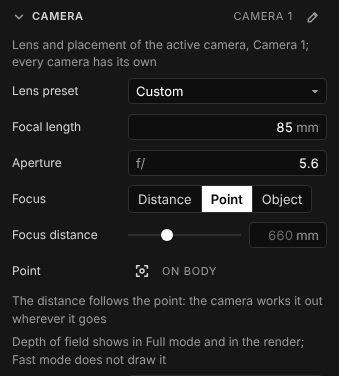
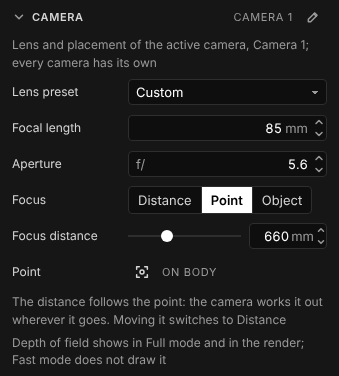
F1 docs: the decisions taken, K3's cameras and N2's batches
ROADMAP records the six F1 decisions as taken by the session lead (the
slider switches to Distance, the rest as built; the distortion +1 corner
stays open) and what came with the merge of K3 and N2; SPEC, UI and
ARCHITECTURE say how the interior cameras focus and that moving the
slider in Point or Object switches to Distance; the inspector capture is
taken again with the steppers and the enabled slider.

Claude-Session: https://claude.ai/code/session_01Vyw8CoEN48cqBKpA2hjydX

diff --git a/src/core/focus.ts b/src/core/focus.ts
@@ -7,7 +7,7 @@
 //   part's transforms and animation; the focus distance is the one that puts that point in focus from the camera as it
 //   is at that moment.
 // - OBJECT: a part, a group or the model (`focusObject`); the point of it the focus follows is, for now, the centre of
-//   its bounds (◆ Fable: `OBJECT_FOCUS_POINT`, with the other two candidates ready below).
+//   its bounds (decided: `OBJECT_FOCUS_POINT`, with the other two candidates written below and unused).
 //
 // "In focus" is the engine's rule (rt-core `focus`): the thin lens focuses the plane square to the view axis at the
 // focus distance, so a point's distance is its depth along the axis; a tilted lens (O1) focuses the plane of the hinge
@@ -66,7 +66,7 @@ export function anchorOf(state: ProjectState, node: NodeId, world: Vec3, pose?: 
 }
 
 /**
- * Which point of an object the focus follows (◆ Fable decides; the default is the centre of its bounds):
+ * Which point of an object the focus follows (decided: the centre of its bounds; the other two are kept, unused):
  * - `BOUNDS_CENTRE`: the centre of the box round the object's parts, as they are at that moment;
  * - `NEAREST`: the object's vertex nearest the camera along the view axis (its front);
  * - `SILHOUETTE`: the surface the camera sees at the centre of the object's outline on the image (the box round its
@@ -74,7 +74,7 @@ export function anchorOf(state: ProjectState, node: NodeId, world: Vec3, pose?: 
  */
 export type ObjectFocusPoint = 'BOUNDS_CENTRE' | 'NEAREST' | 'SILHOUETTE';
 export const OBJECT_FOCUS_POINTS: readonly ObjectFocusPoint[] = ['BOUNDS_CENTRE', 'NEAREST', 'SILHOUETTE'];
-/** ◆ Fable: the point of an object the focus follows. */
+/** The point of an object the focus follows (decided). */
 export const OBJECT_FOCUS_POINT: ObjectFocusPoint = 'BOUNDS_CENTRE';
 
 /** The world positions of a part's vertices at a pose (none without its mesh data). */
@@ -317,7 +317,7 @@ export function focusDistanceAt(state: ProjectState, camId: CameraId, t: number 
 }
 
 /**
- * The range of the focus distance's slider (◆ Fable: the range and its logarithmic scale): from half the nearest to
+ * The range of the focus distance's slider (decided, with its logarithmic scale): from half the nearest to
  * twice the farthest depth of the product's box along the camera's view axis (its eight corners; the whole scene's
  * without a product), at least a decade wide, and always with `value` in it. Millimetres, never below 1.
  */

diff --git a/src/ui/panels/insp-focus.ts b/src/ui/panels/insp-focus.ts
@@ -61,7 +61,7 @@ export function focusRows(ctx: Ctx, scope: Scope, camId: () => CameraId): HTMLEl
 /**
  * The focus distance as a logarithmic slider with its field. In Distance it is the camera's own; in Point and Object
  * it shows the distance worked out for the point or the object, and moving it switches the camera to Distance from
- * there (the decision on F1's ◆: one undo entry, the switch and the gesture together).
+ * there (decided: one undo entry, the switch and the gesture together).
  */
 function distanceRow(ctx: Ctx, scope: Scope, camId: () => CameraId): HTMLElement {
   const { store } = ctx;

diff --git a/docs/ROADMAP.md b/docs/ROADMAP.md
@@ -11765,20 +11765,12 @@ cambia la luminancia y la saturación media en menos del 0,1 %).
   claros en oscuro, lo que aplana la jerarquía de grises. Decidir: subirlos,
   limitar el texto auxiliar a `bg-0`, `bg-1` y *hover* (`#4e4e4e` /
   `#afafaf`) o aceptar 4,5:1 para el texto secundario.
-- **F1** (los ◆ de su párrafo): qué punto sigue *Enfoque ▸ Objeto* (hoy el
-  centro de su caja; escritas y sin usar, la superficie más cercana a lo largo
-  del eje y la que se ve en el centro de su silueta, `objectFocusPoint`); el
-  rango y la escala del deslizador de la distancia (hoy logarítmico, de la
-  mitad de la esquina más cercana de la caja del producto al doble de la más
-  lejana, una década como mínimo y siempre con el valor dentro); si en
-  *Punto* y *Objeto* el deslizador está deshabilitado con la distancia que
-  sale (hoy) o moverlo pasa la cámara a *Distancia*; el criterio del mejor
-  foco de una lente trazada (hoy el contraste de 10 y 5 pares de líneas por
-  mm del cuadro de 36 mm, el máximo más cercano a la menor confusión; la menor
-  confusión quedaba a milímetros, y otra frecuencia lo mueve 1–3 mm a f/1,4); qué hace un cambio de foco animado
-  (clip `FOCUS`) en una cámara en *Punto* (hoy tira desde la distancia que
-  sigue y el último gana); y si el clic en un vidrio enfoca su cara delantera
-  (hoy) o lo que se ve a través.
+- **F1** — **decididas** (17-10, por el responsable de la sesión; el párrafo
+  de F1 las recoge): el centro de la caja para *Objeto*; el rango y la escala
+  del deslizador, como están; mover el deslizador en *Punto* u *Objeto* pasa a
+  *Distancia*; el criterio del mejor foco, como está (la esquina con
+  distorsión +1 queda abierta); el clip de foco gana; el clic en vidrio, su
+  cara delantera.
 
 - **U15** (los ◆ de su párrafo): el aspecto de la **variante compacta**
   de las flechas (hoy un par más fino, siempre visible, en los campos con
@@ -11970,31 +11962,49 @@ deshaciéndolo: el test correspondiente falla (el informe del PR los lista).
 5. **El lector de cámaras de la biblioteca** (`io/library.ts`) sigue sin leer
    la óptica de una cámara (ya era así); lee los modos de enfoque.
 6. **`slider()`** cambió por dentro lo justo: una escala opcional
-   (`toUnit`/`fromUnit`, 1000 posiciones); las flechas del campo son de U15.
-7. **El clic en vidrio** enfoca su cara delantera, como el resto (◆).
+   (`toUnit`/`fromUnit`, 1000 posiciones), junto a las flechas, la variante
+   compacta y `setDisabled` de U15 (fusionadas).
+7. **El clic en vidrio** enfoca su cara delantera, como el resto (decidido).
 8. **La esquina de una lente trazada con distorsión artística +1** (abajo a
    la derecha, a f/1,4) sigue con la banda a −38,5 px del clic, fuera de ella:
    el enfoque escrito es el del motor para ese píxel (0,00 mm), así que lo que
    no casa es el criterio del mejor foco con lo que el render ve allí (un
    punto del sensor muy fuera, con mucha aberración); el resto de esquinas
-   trazadas cae dentro de la banda. Queda con el criterio (◆).
+   trazadas cae dentro de la banda. El criterio se aceptó; esta esquina queda
+   abierta.
 9. **`cargo test --workspace`** con la máquina cargada: cuatro tests de
    `rt-app` (descargas y actualizaciones con servidores locales, el
    adaptativo con varios hilos) y cuatro de `rt-cli` (TIFF) fallan a veces y
    pasan solos; no tocan F1.
 
-**Para K3** (la cámara de interiores, en su rama): el rayo del pico es el de
-`Camera::generate_ray` con la pupila en su centro, así que las cámaras nuevas
-(descentramiento de interiores, ortográfica, panorámica, ojo de pez) pican
-solas; lo que hay que extender es `Camera::focus_distance_to` (qué distancia
-enfoca un punto con cada cámara nueva) y su espejo `core/focus.ts
-focusDistanceFor`, con su test de paridad, y `viewCamera`/`cameraToRsb` son
-comunes a los dos.
+**Con K3 y N2** (fusionadas tras la fase): el rayo del pico es el de
+`Camera::generate_ray` con la pupila en su centro, así que la ortográfica, las
+dos panorámicas y las verticales rectas pican solas. `Camera::focus_distance_to`
+y `core/focus.ts focusDistanceFor` se extendieron: una panorámica es
+estenopeica y su distancia de enfoque (y la profundidad del pico, como su
+pase) es la distancia al punto, también detrás de la cámara; con verticales
+rectas la cámara que se renderiza es la nivelada (`renderedCamera`), y la
+distancia es la de esa cámara entre cos(inclinación corregida), una lente
+trazada resuelta sobre ella. Tests: el pico y el rayo principal en
+`rt-core focus::tests` con cámaras ortográfica, equirectangular y ojo de pez;
+la paridad TS–`rt.wasm` y el camino del clic, una por proyección, en
+`focus-modes.test.ts`. N2: la cola y los lotes ya escriben la distancia que
+sigue cada cámara (la resuelve la frontera del motor, `viewCamera`, con la
+cámara y la pose del trabajo); `batch.test.ts` lo comprueba en un lote de
+cámaras × estudios y en los fotogramas de una animación, y falla sin esa
+resolución.
 
-**◆ Fable** (en «Decisiones para Fable»): el punto de un *Objeto*; el rango y
-la escala del deslizador; deslizador deshabilitado en *Punto* y *Objeto* o
-moverlo pasa a *Distancia*; el criterio del mejor foco de una lente trazada;
-un cambio de foco animado sobre una cámara en *Punto*; el clic en vidrio.
+**Decisiones** (17-10, del responsable de la sesión; eran ◆): el *Objeto*
+sigue el centro de su caja (las otras dos candidatas siguen escritas y sin
+usar); el rango y la escala logarítmica del deslizador, como están; en
+*Punto* y *Objeto* el deslizador enseña la distancia que sale y **moverlo pasa
+la cámara a *Distancia*** desde ahí, en una sola entrada de deshacer (el
+deslizador no se vuelve a dibujar al cambiar de modo, así que el arrastre
+sigue; `tools/focus-click-check.mjs` lo comprueba); el mejor foco de una lente
+trazada por el contraste de 10 y 5 pares de líneas por milímetro, el máximo
+más cercano a la menor confusión (la esquina con distorsión +1 queda abierta);
+un clip de foco sobre una cámara en *Punto* gana, como ahora; el clic en un
+vidrio enfoca su cara delantera.
 
 ## Orden sugerido
 

diff --git a/docs/CHANGELOG.md b/docs/CHANGELOG.md
@@ -8,7 +8,8 @@ fase del roadmap (`ROADMAP.md`) de donde sale cada línea.
 ### Cámara
 
 - **Enfocar con clic cae en el píxel exacto** de la vista exacta: el clic toma el rayo principal que el motor traza por ese píxel (con la pose del cabezal, la cámara mirada a través con su propio cuadro, la distorsión de una lente trazada) y lo que toca, por las dos caras; la distancia que lo pone nítido es la del motor (la profundidad; con inclinación, el plano de la bisagra que pasa por el punto; con una lente trazada, donde el detalle fino tiene más contraste, que abierta cae a milímetros del plano paraxial). Medido en un damero inclinado con 135 mm a f/1,4: la banda nítida pasa por el clic (F1).
-- **Tres modos de enfoque por cámara**: *Distancia* (como antes), *Punto* (un punto de una pieza que el enfoque sigue al orbitar, al acercarse, al mover la pieza, en la línea de tiempo, en la cola y en los lotes) y *Objeto* (una pieza, un grupo o el modelo, por su centro). En el inspector de la cámara, con la distancia como un deslizador logarítmico junto a su valor; en el menú de una pieza, *Mantener enfocado*; en la paleta, cuatro órdenes. El visor marca el punto de la cámara seleccionada. Si la pieza del punto o el objeto se borran, la cámara vuelve a su última distancia y lo avisa. Los proyectos y las cámaras de antes se abren por distancia (F1).
+- **Tres modos de enfoque por cámara**: *Distancia* (como antes), *Punto* (un punto de una pieza que el enfoque sigue al orbitar, al acercarse, al mover la pieza, en la línea de tiempo, en la cola y en los lotes) y *Objeto* (una pieza, un grupo o el modelo, por su centro). En el inspector de la cámara, con la distancia como un deslizador logarítmico junto a su valor (en *Punto* u *Objeto*, moverlo pasa a *Distancia* desde la distancia que seguía, en una sola entrada de deshacer); en el menú de una pieza, *Mantener enfocado*; en la paleta, cuatro órdenes. El visor marca el punto de la cámara seleccionada. Si la pieza del punto o el objeto se borran, la cámara vuelve a su última distancia y lo avisa. Los proyectos y las cámaras de antes se abren por distancia (F1).
+- Con las cámaras de interiores: el clic enfoca también con la ortográfica, la panorámica 360° y el ojo de pez (sin profundidad de campo: la distancia es la del punto), y con *Verticales rectas*, donde cuenta la cámara nivelada que se renderiza (F1).
 - Arreglado: el visor *Completo* de una cámara mirada a través usaba el cuadro de la cámara activa (una de 9:16 enfocaba hasta 35 mm fuera en la esquina); una lente trazada en el visor *Completo* se trazaba para el sensor del visor y no era la del render; el enfoque elegido con clic no seguía a la cámara al orbitar ni al acercarse; y el clic no veía la cara trasera de una superficie de una sola cara que el motor sí renderiza (F1).
 
 ### Motor

diff --git a/docs/GALERIA.md b/docs/GALERIA.md
@@ -30,8 +30,8 @@ El enfoque de F1: el bloque *Enfoque* del inspector, la marca del punto en el vi
 
 #### F1 · Enfoque por punto y por objeto
 
-<a id="c-f1-focus-inspector"></a><img src="ui/f1-focus-inspector.png" width="340" alt="El bloque Cámara del inspector tras enfocar con un clic: Enfoque en Punto (Distancia · Punto · Objeto), la distancia de enfoque como deslizador con su campo al lado, deshabilitados porque la distancia sale del punto (660 mm), y la fila Punto con el botón de enfocar con clic y «On Body»."><br>
-`f1-focus-inspector.png` · `1cb9f87` · El bloque Cámara del inspector tras enfocar con un clic: *Enfoque* en *Punto* (*Distancia · Punto · Objeto*), la distancia de enfoque como deslizador con su campo al lado, deshabilitados porque la distancia sale del punto (660 mm), y la fila *Punto* con el botón de enfocar con clic y la pieza enfocada. `tools/focus-click-check.mjs --shots docs/ui`.
+<a id="c-f1-focus-inspector"></a><img src="ui/f1-focus-inspector.png" width="340" alt="El bloque Cámara del inspector tras enfocar con un clic: Enfoque en Punto (Distancia · Punto · Objeto), la distancia de enfoque como deslizador con su campo y sus flechas al lado, con la distancia que sale del punto (660 mm; moverla pasa a Distancia), y la fila Punto con el botón de enfocar con clic y «On Body»."><br>
+`f1-focus-inspector.png` · `1cb9f87` · El bloque Cámara del inspector tras enfocar con un clic: *Enfoque* en *Punto* (*Distancia · Punto · Objeto*), la distancia de enfoque como deslizador con su campo y sus flechas al lado, con la distancia que sale del punto (660 mm; moverla pasa a *Distancia*), y la fila *Punto* con el botón de enfocar con clic y la pieza enfocada. `tools/focus-click-check.mjs --shots docs/ui`.
 
 <a id="c-f1-focus-marker"></a><img src="ui/f1-focus-marker.png" width="480" alt="El visor en Rápido alrededor del punto enfocado en la etiqueta de la botella del ejemplo, con la cámara seleccionada: la marca del punto (un anillo con cuatro trazos y un punto en el centro) donde cayó el clic."><br>
 `f1-focus-marker.png` · `1cb9f87` · El visor en *Rápido* alrededor del punto enfocado en la etiqueta de la botella del ejemplo, con la cámara seleccionada: la marca del punto (un anillo con cuatro trazos y un punto en el centro) donde cayó el clic. `tools/focus-click-check.mjs --shots docs/ui`.

diff --git a/docs/SPEC.md b/docs/SPEC.md
@@ -1092,9 +1092,9 @@ así), `POINT` (un punto picado con un clic, `focusPoint: { node, point }`,
 guardado **en las coordenadas de la pieza que tocó**, de modo que sigue a
 sus transformaciones y a su animación) u `OBJECT` (una pieza, un grupo o el
 modelo, `focusObject`, al nivel de selección con el que se eligió; el punto
-que se sigue es por ahora el **centro de su caja**, ◆ Fable: las otras dos
+que se sigue es el **centro de su caja** (decidido; las otras dos
 candidatas, el vértice más cercano a lo largo del eje y la superficie que se
-ve en el centro de su silueta, están escritas en `objectFocusPoint`). En
+ve en el centro de su silueta, están escritas en `objectFocusPoint` y sin usar). En
 `POINT` y `OBJECT` la distancia de enfoque **se calcula** desde la cámara tal
 como está en cada momento y el punto donde está en ese momento: al navegar,
 al mirar a través, en cada fotograma de una animación, en la ventana de
@@ -1113,9 +1113,11 @@ cuyo plano de la regla de la bisagra pasa por el punto; una lente trazada
 (O2) se enfoca paraxialmente, pero abierta su aberración esférica y la
 curvatura de campo ponen su imagen más nítida a milímetros de ese plano, y
 el motor resuelve la distancia con sus propios rayos (donde el detalle fino
-que ve el punto del sensor tiene más contraste, `rt_scene_focus_at`; ◆
-Fable: 10 y 5 pares de líneas por milímetro del cuadro de 36 mm); sin `rt.wasm`
-se usa la paraxial. Una lente trazada respira, así que el clic se asienta:
+que ve el punto del sensor tiene más contraste, `rt_scene_focus_at`:
+10 y 5 pares de líneas por milímetro del cuadro de 36 mm, decidido); sin `rt.wasm`
+se usa la paraxial. Una panorámica (K3) no tiene profundidad de campo: su
+distancia es la del punto; con verticales rectas cuenta la cámara nivelada
+que se renderiza. Una lente trazada respira, así que el clic se asienta:
 se repite con la cámara ya enfocada hasta que el píxel muestra el mismo
 punto. **Enfocar con clic** pica el píxel exacto en
 la vista exacta: el rayo principal del motor para ese píxel (la cámara

diff --git a/docs/UI.md b/docs/UI.md
@@ -790,11 +790,11 @@ salvo los dos que construyen cosas: *Crear estudio* y *Render*.
    profundidad de la escena desde la cámara: de la mitad de la esquina más
    cercana de la caja del producto a lo largo del eje de la vista al doble
    de la más lejana, al menos una década, y siempre con la distancia dentro
-   (◆ Fable: el rango y la escala). Con *Distancia* se edita (una entrada
+   (decidido). Con *Distancia* se edita (una entrada
    de deshacer por gesto, *Cámara: Distancia de enfoque*). Con *Punto* y
    *Objeto* enseña la distancia que la cámara calcula para el punto o el
-   objeto donde están ahora (el cabezal incluido), **apagado** (◆ Fable: o
-   que moverlo pase a *Distancia*); debajo, en *Punto*, el botón ***Enfocar
+   objeto donde están ahora (el cabezal incluido), y **moverlo pasa la cámara a
+   *Distancia*** desde ahí, en la misma entrada de deshacer (decidido); debajo, en *Punto*, el botón ***Enfocar
    con clic*** (icono de enfoque, pulsado mientras se pica; deshacer
    *Enfocar con clic*) y *En «pieza»* (o *Nada elegido todavía*); en
    *Objeto*, ***Elegir qué enfocar*** (icono de diana) y *En «nombre»*; y

diff --git a/docs/ARCHITECTURE.md b/docs/ARCHITECTURE.md
@@ -2673,6 +2673,14 @@ TypeScript:
   una lente trazada pone su mejor foco a milímetros del plano paraxial, varias
   profundidades de campo; resolverlo cuesta de 0,4 a 0,6 s en `rt.wasm` con la
   máquina cargada.
+- **Las cámaras de K3** (§5.2 quindecies). El pico pasa por `generate_ray`,
+  así que la ortográfica, la equirectangular y el ojo de pez pican sin más; una
+  panorámica es estenopeica, y su distancia de enfoque, como la profundidad de
+  su pico y de su pase, es la distancia al punto (también detrás de la
+  cámara). Con verticales rectas el motor recibe la cámara nivelada
+  (`renderedCamera`): la interfaz resuelve sobre ella y guarda esa distancia
+  entre cos(inclinación corregida), que es lo que `renderedCamera` vuelve a
+  multiplicar.
 - **`frame_sensor_mm`** (al final de `LENS`, tras la prescripción, opcional):
   el sensor del cuadro de salida a lo largo de su lado largo cuando el de la
   cámara abarca más (la imagen del visor). La lente trazada saca de él lo que
